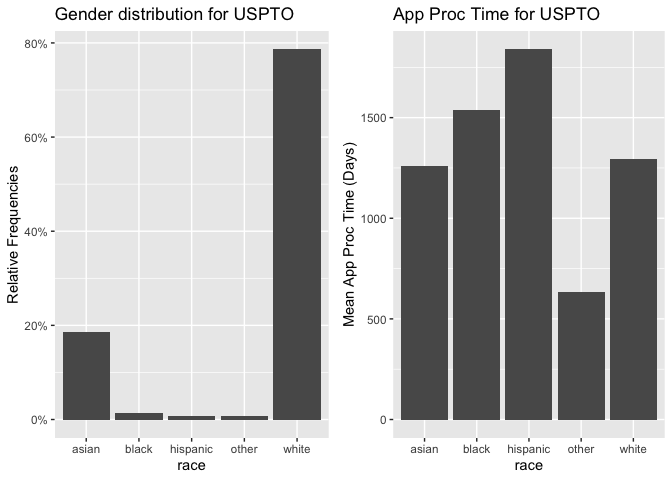
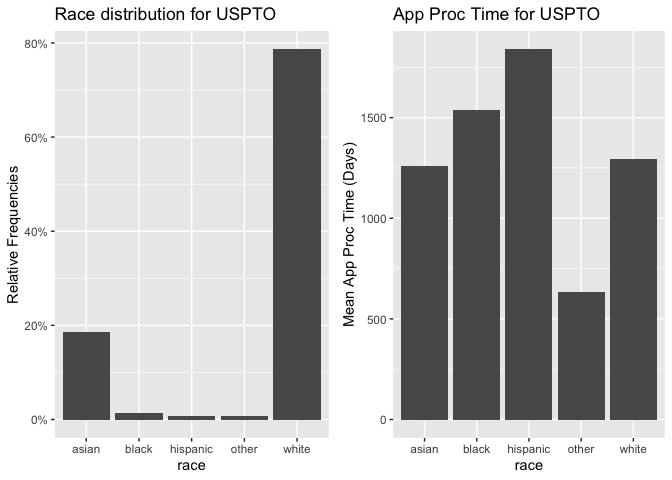
11:53pm commit

Changed region(s): [[0.0625, 0.0, 0.4375, 0.0625]]

diff --git a/final_report.md b/final_report.md
@@ -31,13 +31,19 @@ the patent application times and outcomes.
 
 # 2. Methodology
 
-1. Data Pre-processing <br/>
-&nbsp;&nbsp;&nbsp;a.  Data Engineering <br/>
-&nbsp;&nbsp;&nbsp;b.  Data Exploration <br/>
-&nbsp;&nbsp;&nbsp;c.  Data Cleaning
-2. Examining Gender Effect
-3. Examining Tenure Effect
-4. Examining Race Effect
+1.  Data Pre-processing
+
+<!-- -->
+
+1.  Data Engineering
+2.  Data Exploration
+3.  Data Cleaning
+
+<!-- -->
+
+2.  Examining Gender Effect
+3.  Examining Race Effect
+4.  Examining Tenure Effect
 
 # 3. Analysis and Results
 
@@ -829,8 +835,8 @@ head(centrality)
 
     ##   examiner_id degree_centrality betweenness_centrality eigenvector_centrality
     ## 1       84356                17             22.0000000           3.117146e-10
-    ## 2       92953                 1              0.0000000           1.935144e-18
-    ## 3       72253                28             94.0000000           7.153520e-11
+    ## 2       92953                 1              0.0000000           3.262635e-19
+    ## 3       72253                28             94.0000000           7.153516e-11
     ## 4       67078                 2              0.0000000           1.177571e-08
     ## 5       91688                12              0.7936508           5.901232e-10
     ## 6       61797                25              0.0000000           4.146497e-07
@@ -869,7 +875,7 @@ head(examiner_joined) #1447
     ## 2           1.221788e-06         4.785903e-07
     ## 3           6.445086e-05         4.779288e-07
     ## 4           2.212934e-10         4.782593e-07
-    ## 5           5.042884e-13         4.779288e-07
+    ## 5           5.042846e-13         4.779288e-07
     ## 6           4.941850e-12         4.779288e-07
 
 ### Work groups selection (applicable for analysis zoom-in)
@@ -1201,10 +1207,10 @@ stargazer(reg1,reg2,reg3,reg4,reg5,type="text", title="Impacts of Centrality Mea
     ## betweenness_centrality                          0.684                                                       0.859       
     ##                                                (1.182)                                                     (1.194)      
     ##                                                                                                                         
-    ## eigenvector_centrality                                       -2,174,175,755.000                      -1,507,154,635.000 
-    ##                                                              (2,231,984,952.000)                     (2,345,267,965.000)
+    ## eigenvector_centrality                                       -2,174,175,757.000                      -1,507,154,642.000 
+    ##                                                              (2,231,984,951.000)                     (2,345,267,964.000)
     ##                                                                                                                         
-    ## closeness_centrality                                                             -1,310,550,071.000   -388,030,640.000  
+    ## closeness_centrality                                                             -1,310,550,071.000   -388,030,638.000  
     ##                                                                                  (2,256,989,357.000) (2,349,671,706.000)
     ##                                                                                                                         
     ## Constant                  1,289.814***       1,261.027***       1,273.747***         1,897.334*           1,473.949     
@@ -1386,10 +1392,10 @@ stargazer(reg1,reg2,reg3,reg4,reg5,type="text", title="Impacts of Centrality Mea
     ## betweenness_centrality:as.factor(gender)male                         13.354**                                                    13.349**      
     ##                                                                       (5.960)                                                     (6.291)      
     ##                                                                                                                                                
-    ## eigenvector_centrality:as.factor(gender)male                                        -4,060,405,818.000                       1,923,445,218.000 
-    ##                                                                                     (5,006,380,957.000)                     (7,685,871,709.000)
+    ## eigenvector_centrality:as.factor(gender)male                                        -4,060,405,818.000                       1,923,445,239.000 
+    ##                                                                                     (5,006,380,959.000)                     (7,685,871,723.000)
     ##                                                                                                                                                
-    ## closeness_centrality:as.factor(gender)male                                                               2,185,261,518.000   3,245,876,923.000 
+    ## closeness_centrality:as.factor(gender)male                                                               2,185,261,518.000   3,245,876,927.000 
     ##                                                                                                         (4,273,146,757.000) (5,010,232,175.000)
     ##                                                                                                                                                
     ## Constant                                        1,339.215***       1,373.178***        1,317.188***          2,427.751           1,815.083     
@@ -1442,13 +1448,13 @@ stargazer(reg1,reg2,reg3,reg4,reg5,type="text", title="Impacts of Centrality Mea
     ## betweenness_centrality                                                -0.439                                                         -1.255        
     ##                                                                      (2.057)                                                         (4.496)       
     ##                                                                                                                                                    
-    ## eigenvector_centrality                                                              -48,691,824,239.000                        122,650,134,594.000 
-    ##                                                                                    (298,629,772,020.000)                      (656,665,360,538.000)
+    ## eigenvector_centrality                                                              -48,691,822,660.000                        122,650,108,591.000 
+    ##                                                                                    (298,629,770,328.000)                      (656,665,356,332.000)
     ##                                                                                                                                                    
-    ## closeness_centrality                                                                                       -668,763,612.000    -3,166,589,569.000  
-    ##                                                                                                          (47,488,018,473.000) (50,501,008,207.000) 
+    ## closeness_centrality                                                                                       -668,763,612.000    -3,166,589,781.000  
+    ##                                                                                                          (47,488,018,473.000) (50,501,008,268.000) 
     ##                                                                                                                                                    
-    ## as.factor(gender)male                             -96.222            -68.288              -71.332             1,176.078             -274.339       
+    ## as.factor(gender)male                             -96.222            -68.288              -71.332             1,176.078             -274.340       
     ##                                                  (112.294)          (104.892)            (108.328)           (22,841.610)         (24,305.100)     
     ##                                                                                                                                                    
     ## degree_centrality:as.factor(gender)male            1.652                                                                              2.003        
@@ -1457,11 +1463,11 @@ stargazer(reg1,reg2,reg3,reg4,reg5,type="text", title="Impacts of Centrality Mea
     ## betweenness_centrality:as.factor(gender)male                          -2.443                                                         -1.524        
     ##                                                                      (5.508)                                                         (6.972)       
     ##                                                                                                                                                    
-    ## eigenvector_centrality:as.factor(gender)male                                        47,059,521,594.000                        -123,737,605,640.000 
-    ##                                                                                    (298,641,577,776.000)                      (656,671,687,727.000)
+    ## eigenvector_centrality:as.factor(gender)male                                        47,059,520,013.000                        -123,737,579,641.000 
+    ##                                                                                    (298,641,576,083.000)                      (656,671,683,520.000)
     ##                                                                                                                                                    
-    ## closeness_centrality:as.factor(gender)male                                                                -2,590,487,171.000     399,143,852.000   
-    ##                                                                                                          (47,676,905,724.000) (50,710,134,088.000) 
+    ## closeness_centrality:as.factor(gender)male                                                                -2,590,487,171.000     399,144,066.000   
+    ##                                                                                                          (47,676,905,724.000) (50,710,134,149.000) 
     ##                                                                                                                                                    
     ## Constant                                        1,410.319***       1,387.850***        1,388.340***           1,701.823             2,931.853      
     ##                                                   (98.811)           (91.403)            (96.110)            (22,750.360)         (24,204.380)     
@@ -1539,7 +1545,7 @@ summary(seniority_junior_reg)
 
 Based on the summary, for junior examiners, an increase of 1 unit of
 degree centrality, betweenness centrality, and eigen vector centrality,
-means a decrease of process time by 2.11 days, 5.49 days and 5.91e+08
+means a decrease of process time by 2.76 days, 8.63 days and 1.32e+98
 days respectively. Only the closeness centrality has positive
 relationship with the processing time, which means the higher the
 closeness centrality, the longer the processing time. Unfortunately, all
@@ -1585,7 +1591,7 @@ process time by 2.86 days (larger than the amount of change for juniors)
 and 1.33e+08 days(smaller than the amount of change for juniors)
 respectively. Contrastingly, an increase of 1 unit of betweenness
 centrality and closeness centrality causes an increase of process time
-by 6.14 days and 4.15 days respectively. Similarlt, all of the
+by 6.14 days and 4.15 days respectively. Similarly, all of the
 coefficients are not statistically significant.
 
 In the next model, we include seniority as interaction term for each of
@@ -1625,14 +1631,14 @@ summary(seniority_reg)
     ## F-statistic: 0.9559 on 9 and 135 DF,  p-value: 0.4794
 
 According to this model, a junior examiner usually process applications
-6.17 days longer than a senior examiner. Also, the same as the previous
+9.60 days longer than a senior examiner. Also, the same as the previous
 junior model, an increase in any of the centrality predictor results in
 shorter processing time for junior examiners, except for the closeness
-centrality. If the examiner is a senior, an increase in degree
-centrality or closeness centrality results in a shortening of 7.44 days
-or 1.46 days compared to juniors; and increase in betweenness centrality
-or eigen vector centrality incurs a elongation of 6.11 days or 4.58 days
-compared to juniors.
+centrality. If the examiner is a senior, an increase in closeness
+centrality results in a shortening of 3.43e08 days compared to juniors;
+and increase in degree centrality or betweenness centrality or eigen
+vector centrality incurs a elongation of 1.38 days, 9.17 days or 1.11e09
+days compared to juniors.
 
 #### 3.1.3 Impacts of examiners’ race and ethnicity
 
@@ -1825,7 +1831,7 @@ plot1 <- ggplot(examiner_joined_2wg, aes(race)) +
           geom_bar(aes(y = (..count..)/sum(..count..))) + 
           scale_y_continuous(labels=scales::percent) +
           ylab("Relative Frequencies") +
-          ggtitle("Gender distribution for USPTO")
+          ggtitle("Race distribution for USPTO")
 
 plot2 <- ggplot(examiner_joined_2wg, aes(race, mean_app_proc_time)) + 
           geom_bar(posititon="dodge", stat="summary", fun="mean") + 
@@ -1917,7 +1923,7 @@ white examiner, the effect of degree centrality is positive and the
 effect of betweenness centrality is positive in relation to the mean
 application processing time.
 
-## 4. Conclusions and Recommendations
+# 4. Conclusions and Recommendations
 
 To USPTO, it is important to understand the fundamental reasons of
 gender imbalance within the organization and why male examiners in
@@ -1930,8 +1936,9 @@ impact analysis, we are also aware of the strengths and working style of
 females and males that male examiners are more good at building cohesive
 network that all examiners know each other well, while female examiners
 are more good at bridging network that they have close examiners in
-different groups who don’t know each other well when there is better
-gender balance, and less of a benefit under gender imbalance.
+different groups who don’t know each other well - this applies when
+there is better gender balance, and less of a benefit under gender
+imbalance.
 
 With that being said, since the main duty of examiners are processing
 applications, it makes sense that naturally more male examiners with
@@ -1943,7 +1950,15 @@ projects (divergent changes perhaps) which might require involvement of
 examiners on top of business as usual.
 
 Considering the impact of seniority to the mean application processing
-time, …
+time, we found that junior examiners take 9.60 days longer to process
+applications than senior and that for senior, having higher centrality
+score actually hinders their speed in processing the patent
+applications. This could be explained by the greater responsibility they
+take being involved in cohesive and bridging networks under the context
+of an advice net. This is supported by the fact that there more senior
+being consulted than seeking advice in the directed network, and
+pointing towards the need to review workload per seniority level and the
+coaching and mentoring approach to enhance operational efficiency.
 
 Imbalance of examiners’ race and ethnicity is also seen which lack of
 Black and Hispanic data points are too few for us to draw useful
@@ -1954,12 +1969,14 @@ days more in mean processing time while networking for white examiners
 helps reducing mean application processing time. Further study on how
 the racial distribution looks like against the demographic of US might
 help evaluation of inclusion and diversity policy and formulation of
-more targeted internal training and team building to break the obstacles
-to bond or perform efficiently.
+targeted internal training and team building to break the obstacles to
+bond and perform efficiently.
 
 Last but not least, analysis on specific work group level and individual
 level are strongly recommended to evaluate examiner performance more
-fairly in quarterly/yearly review. Different metrics apart from
+fairly in quarterly/yearly reviews. Different metrics apart from
 application processing time / efficiency in handling applications shall
 be included, such as the quality of applications processing, tenure and
-promotion, etc.
+promotion, etc. In this way, we can fit the context of organizational
+network analysis into the bigger picture of human resource strategies
+and
